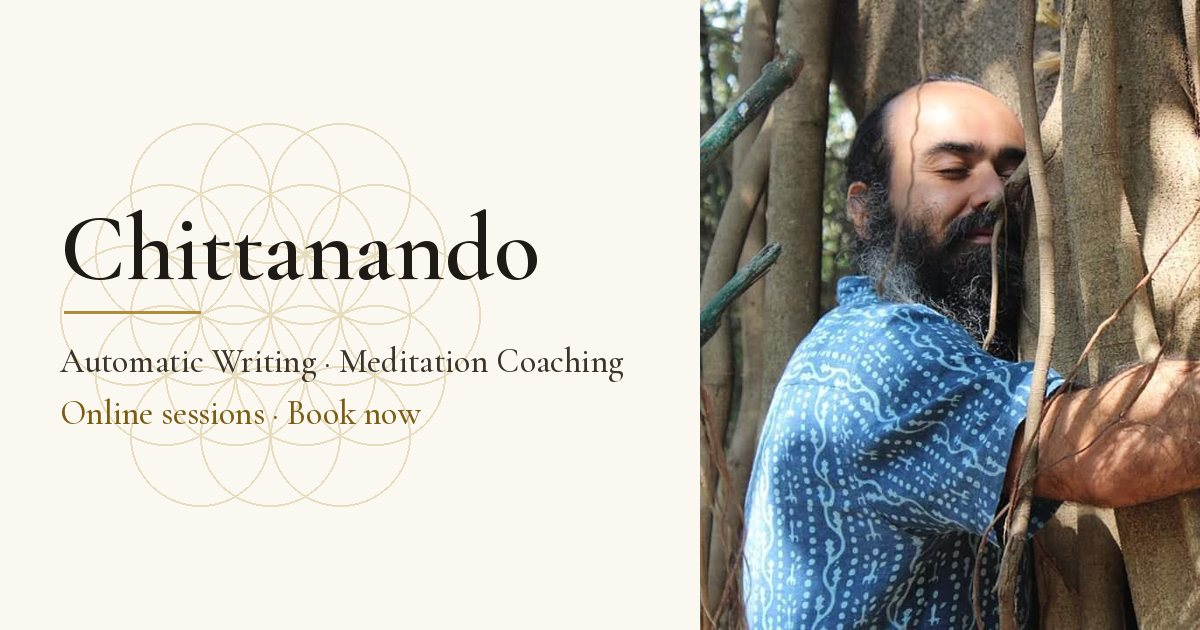
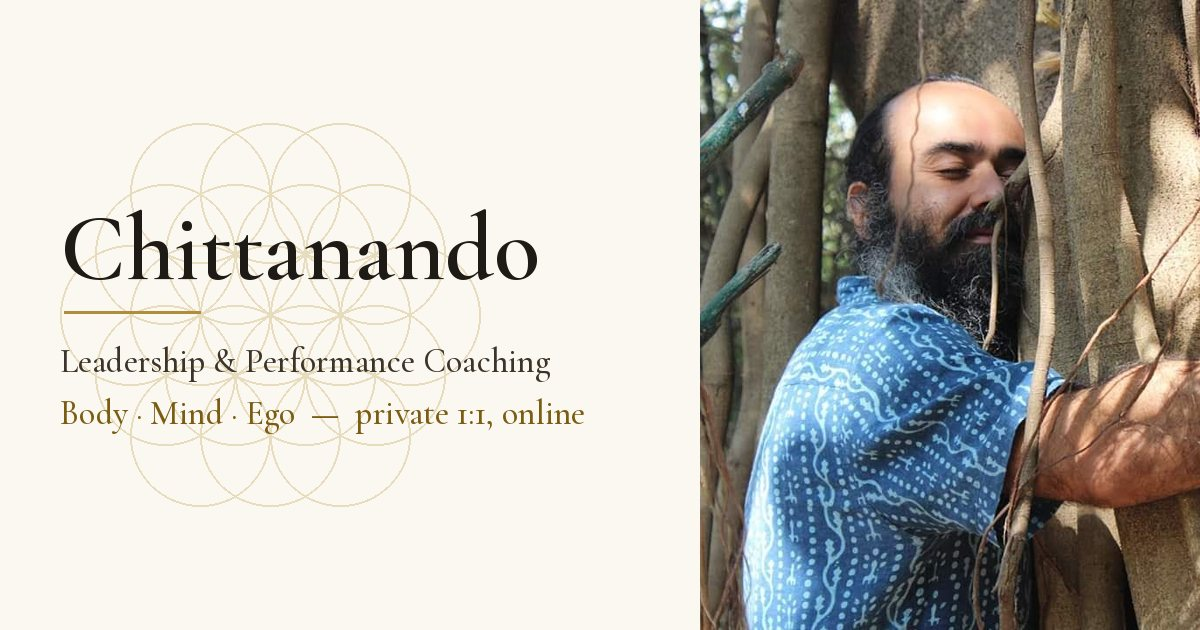
Reposition: Leadership & Performance Coaching as flagship

Changed region(s): [[0.0308, 0.6333, 0.4933, 0.6937], [0.0308, 0.5429, 0.5242, 0.6032]]

diff --git a/index.html b/index.html
@@ -5,15 +5,15 @@
 <meta name="viewport" content="width=device-width, initial-scale=1">
 <meta http-equiv="Content-Security-Policy" content="default-src 'self'; script-src 'self'; style-src 'self'; img-src 'self' data:; font-src 'self'; connect-src 'self' https://*.trycloudflare.com; form-action 'self' mailto:; base-uri 'self'; object-src 'none'">
 <meta name="referrer" content="strict-origin-when-cross-origin">
-<title>Chittanando — Automatic Writing &amp; Meditation Coaching | Book Online</title>
-<meta name="description" content="Book a one-to-one online Automatic Writing (Soul Speak) or Mind Mastery session with Chittanando, spiritual medium and meditation coach. US$100 / ₹8,500 per session.">
+<title>Leadership &amp; Performance Coaching for Leaders and Entrepreneurs | Chittanando</title>
+<meta name="description" content="Private 1:1 coaching for senior leaders, top management and entrepreneurs: optimum performance and work-life balance through integrated body, mind and ego work. Book a free discovery call.">
 <meta name="robots" content="index,follow">
 <link rel="canonical" href="https://koyguy.github.io/chittanando-site/">
 <meta name="theme-color" content="#1f2340">
 <meta property="og:type" content="website">
 <meta property="og:site_name" content="Chittanando">
-<meta property="og:title" content="Chittanando — Automatic Writing &amp; Meditation Coaching | Book Online">
-<meta property="og:description" content="Book a one-to-one online Automatic Writing (Soul Speak) or Mind Mastery session with Chittanando, spiritual medium and meditation coach. US$100 / ₹8,500 per session.">
+<meta property="og:title" content="Leadership &amp; Performance Coaching for Leaders and Entrepreneurs | Chittanando">
+<meta property="og:description" content="Private 1:1 coaching for senior leaders, top management and entrepreneurs: optimum performance and work-life balance through integrated body, mind and ego work. Book a free discovery call.">
 <meta property="og:url" content="https://koyguy.github.io/chittanando-site/">
 <meta property="og:image" content="https://koyguy.github.io/chittanando-site/assets/og-image.jpg">
 <meta property="og:image:width" content="1200"><meta property="og:image:height" content="630">
@@ -25,10 +25,10 @@
 <link rel="apple-touch-icon" href="apple-touch-icon.png">
 <link rel="manifest" href="manifest.webmanifest">
 <link rel="preload" href="fonts/cormorant-garamond-latin-600-normal.woff2" as="font" type="font/woff2" crossorigin>
-<link rel="stylesheet" href="assets/site.css?v=mwteq4mx">
-<script src="config.js?v=mwteq4mx" defer></script>
-<script src="assets/app.js?v=mwteq4mx" defer></script>
-<script type="application/ld+json">{"@context":"https://schema.org","@graph":[{"@type":"ProfessionalService","@id":"https://koyguy.github.io/chittanando-site/#business","name":"Chittanando","url":"https://koyguy.github.io/chittanando-site/","image":"https://koyguy.github.io/chittanando-site/assets/og-image.jpg","email":"ig.permaheal@gmail.com","description":"Automatic Writing sessions, spiritual guidance and meditation coaching, online worldwide.","areaServed":"Worldwide","priceRange":"US$100 / ₹8,500 per session","founder":{"@id":"https://koyguy.github.io/chittanando-site/#founder"},"hasOfferCatalog":{"@type":"OfferCatalog","name":"Sessions","itemListElement":[{"@type":"Offer","price":"100","priceCurrency":"USD","itemOffered":{"@type":"Service","name":"Soul Speak · Automatic Writing Session","description":"Channeled guidance through Automatic Writing. Bring your questions and connect with your spirit guides, ascended masters and departed loved ones.","provider":{"@id":"https://koyguy.github.io/chittanando-site/#business"}}},{"@type":"Offer","price":"100","priceCurrency":"USD","itemOffered":{"@type":"Service","name":"Mind Mastery Session","description":"Meditation as mind training, not just relaxation. Practical techniques to steady attention, settle your nervous system and sustain what opens up in Soul Speak.","provider":{"@id":"https://koyguy.github.io/chittanando-site/#business"}}}]}},{"@type":"Person","@id":"https://koyguy.github.io/chittanando-site/#founder","name":"Chittanando","alternateName":"Ranjot Singh","jobTitle":"Spiritual medium and meditation coach","sameAs":["https://igpermaheal.wixsite.com/chittanando-com"]},{"@type":"WebSite","@id":"https://koyguy.github.io/chittanando-site/#site","url":"https://koyguy.github.io/chittanando-site/","name":"Chittanando","inLanguage":"en-IN"}]}</script>
+<link rel="stylesheet" href="assets/site.css?v=mwtftqn5">
+<script src="config.js?v=mwtftqn5" defer></script>
+<script src="assets/app.js?v=mwtftqn5" defer></script>
+<script type="application/ld+json">{"@context":"https://schema.org","@graph":[{"@type":"ProfessionalService","@id":"https://koyguy.github.io/chittanando-site/#business","name":"Chittanando","url":"https://koyguy.github.io/chittanando-site/","image":"https://koyguy.github.io/chittanando-site/assets/og-image.jpg","email":"ig.permaheal@gmail.com","description":"Private leadership and performance coaching for senior leaders, top management and entrepreneurs — optimum performance and work-life balance through integrated body, mind and ego work. Also Mind Mastery and Automatic Writing sessions. Online worldwide.","areaServed":"Worldwide","priceRange":"US$100 / ₹8,500 per session","founder":{"@id":"https://koyguy.github.io/chittanando-site/#founder"},"hasOfferCatalog":{"@type":"OfferCatalog","name":"Coaching & sessions","itemListElement":[{"@type":"Offer","availability":"https://schema.org/InStock","description":"By application; free 20-minute discovery call","itemOffered":{"@type":"Service","name":"Leadership & Performance Coaching","description":"Private coaching for senior leaders, top management and entrepreneurs who want to perform at their best without burning out. We work on body, mind and ego together, so better decisions and a sustainable work-life balance come from the inside out.","provider":{"@id":"https://koyguy.github.io/chittanando-site/#business"}}},{"@type":"Offer","price":"100","priceCurrency":"USD","itemOffered":{"@type":"Service","name":"Mind Mastery Session","description":"Meditation as mind training, not just relaxation. Practical techniques for mental clarity and nervous-system regulation when the pressure is on.","provider":{"@id":"https://koyguy.github.io/chittanando-site/#business"}}},{"@type":"Offer","price":"100","priceCurrency":"USD","itemOffered":{"@type":"Service","name":"Soul Speak · Automatic Writing Session","description":"An intuitive session through Automatic Writing. Bring a question about a decision, a relationship or a pattern, and receive channeled guidance from your spirit guides, ascended masters or departed loved ones.","provider":{"@id":"https://koyguy.github.io/chittanando-site/#business"}}}]}},{"@type":"Person","@id":"https://koyguy.github.io/chittanando-site/#founder","name":"Chittanando","alternateName":"Ranjot Singh","jobTitle":"Leadership and performance coach, meditation coach and spiritual medium","sameAs":["https://igpermaheal.wixsite.com/chittanando-com"]},{"@type":"WebSite","@id":"https://koyguy.github.io/chittanando-site/#site","url":"https://koyguy.github.io/chittanando-site/","name":"Chittanando","inLanguage":"en-IN"}]}</script>
 </head>
 <body>
 <a class="skip" href="#main">Skip to content</a>
@@ -42,7 +42,7 @@
         <ul><li><a href="./#about">About</a></li><li><a href="./#sessions">Sessions</a></li><li><a href="./#how">How it works</a></li><li><a href="./#pricing">Pricing</a></li><li><a href="./#faq">FAQ</a></li><li><a href="./#contact">Contact</a></li></ul>
       </details>
     </nav>
-    <a class="btn btn-small" href="./#book">Book a session</a>
+    <a class="btn btn-small" href="./#book" data-pick-service="enquiry">Book a discovery call</a>
   </div>
 </header>
 <main id="main">
@@ -51,17 +51,17 @@
   <img class="geo" src="assets/flower-of-life.svg" alt="" width="400" height="400" aria-hidden="true">
   <div class="wrap hero-grid">
     <div class="hero-copy">
-      <p class="eyebrow">Automatic Writer · Spiritual Coach · Medium &amp; Guide</p>
-      <h1>Clear guidance from Spirit. Practical tools for your mind.</h1>
-      <p class="lead">One-to-one online sessions with Chittanando — Automatic Writing medium and meditation coach. Ancient wisdom made practical, in plain language.</p>
+      <p class="eyebrow">Leadership &amp; Performance Coach · Meditation Coach · Automatic Writer</p>
+      <h1>Lead at your best — without losing yourself.</h1>
+      <p class="lead">Private leadership and performance coaching for senior leaders, top management and entrepreneurs. Optimum performance and real work-life balance, built by working on body, mind and ego together.</p>
       <div class="cta-row">
-        <a class="btn" href="#book">Book a session</a>
-        <a class="btn btn-ghost" href="#how">How it works</a>
+        <a class="btn" href="#book" data-pick-service="enquiry">Book a free discovery call</a>
+        <a class="btn btn-ghost" href="#sessions">See the approach</a>
       </div>
       <ul class="facts" aria-label="At a glance">
-        <li><strong>Since 2005</strong> practising Automatic Writing</li>
+        <li><strong>Private</strong> one-to-one &amp; confidential</li>
+        <li><strong>Online</strong> worldwide, scheduled around you</li>
         <li><strong>Since 2019</strong> in professional practice</li>
-        <li><strong>Online</strong> sessions worldwide</li>
       </ul>
     </div>
     <figure class="hero-figure">
@@ -78,7 +78,7 @@
     <p class="eyebrow">About</p>
     <h2 id="about-h">Meet Chittanando</h2>
     <p>Chittanando (Ranjot Singh) is a spiritual medium and meditation coach. He received the link for Automatic Writing in 2005 from his Guru, Prof. Kashmira Elavia, trained for 13 years, and has worked with clients professionally since 2019.</p>
-    <p>His work brings two things together: channeled guidance that helps you see what is really going on, and practical mind training that helps you live it. No jargon, no gatekeeping — just honest guidance and tools you can use.</p>
+    <p>Today his main work is private coaching for leaders and entrepreneurs. He combines body practice, mind training and ego work, so the people carrying the most responsibility can think clearly under pressure, stay well, and make room for the life outside work. No jargon, no gatekeeping — just honest guidance and practical tools.</p>
     <blockquote class="quote"><p>“It’s here, in your body, on this Earth, in this very moment.”</p></blockquote>
   </div>
 </section>
@@ -86,33 +86,39 @@
 <section id="sessions" class="section alt" aria-labelledby="sessions-h">
   <div class="wrap">
     <p class="eyebrow">Sessions</p>
-    <h2 id="sessions-h">A journey in three steps</h2>
-    <p class="section-lead">Start with Soul Speak, deepen with Mind Mastery, and continue into an Advanced Program when you are ready. Energy work opens the door; mind training helps the change last.</p>
+    <h2 id="sessions-h">Body, mind and ego — one integrated approach</h2>
+    <p class="section-lead">Most performance coaching works on the mind alone. Lasting change happens when the body, the mind and the ego are addressed together.</p>
+    <ul class="pillars" aria-label="The three dimensions">
+      <li><h3>Body</h3><p>Energy, stamina and a calmer stress response — through breath, movement and Meipadam &amp; Karlakattai body-energy practice.</p></li>
+      <li><h3>Mind</h3><p>Clarity, focus and nervous-system regulation, so you stay steady when the stakes are high.</p></li>
+      <li><h3>Ego</h3><p>Seeing and reprogramming the patterns behind overwork, conflict and self-sabotage.</p></li>
+    </ul>
     <div class="cards">
-  <article class="card service" aria-labelledby="svc-soul-speak">
-    <p class="eyebrow">Tier 1 · Begin here</p>
-    <h3 id="svc-soul-speak">Soul Speak · Automatic Writing Session</h3>
-    <p>Channeled guidance through Automatic Writing. Bring your questions and connect with your spirit guides, ascended masters and departed loved ones.</p>
-    <ul class="ticks"><li>45-minute one-to-one video session</li><li>Guidance written in real time, then read through with you</li><li>Clarity on the patterns, choices and relationships you bring</li></ul>
-    <p class="price"><span class="amount" data-usd="US$100" data-inr="₹8,500">US$100</span> <span class="per">/ session · 45 min</span></p>
-    <a class="btn " href="./#book" data-pick-service="soul-speak">Book Soul Speak Session</a>
+  <article class="card service featured" aria-labelledby="svc-enquiry">
+    <p class="eyebrow">Flagship · Private 1:1 · By application</p>
+    <h3 id="svc-enquiry">Leadership &amp; Performance Coaching</h3>
+    <p>Private coaching for senior leaders, top management and entrepreneurs who want to perform at their best without burning out. We work on body, mind and ego together, so better decisions and a sustainable work-life balance come from the inside out.</p>
+    <ul class="ticks"><li>Body: energy, stamina and stress resilience through breath and movement, including Meipadam &amp; Karlakattai (traditional Tamil body-energy practice)</li><li>Mind: clarity, focus and nervous-system regulation under pressure</li><li>Ego: seeing and reprogramming the patterns that drive overwork, conflict and self-sabotage</li><li>Start with a free 20-minute discovery call; programme format shared on application</li></ul>
+    <p class="price"><span class="amount amount-text">By application</span> <span class="per">· free 20-min discovery call</span></p>
+    <a class="btn " href="./#book" data-pick-service="enquiry">Book a discovery call</a>
   </article>
   <article class="card service" aria-labelledby="svc-mind-mastery">
-    <p class="eyebrow">Tier 2 · Go deeper</p>
+    <p class="eyebrow">1:1 session · Mind</p>
     <h3 id="svc-mind-mastery">Mind Mastery Session</h3>
-    <p>Meditation as mind training, not just relaxation. Practical techniques to steady attention, settle your nervous system and sustain what opens up in Soul Speak.</p>
-    <ul class="ticks"><li>60-minute one-to-one video session</li><li>Meditation, breath and body-awareness practices</li><li>Simple daily practices to take away</li></ul>
+    <p>Meditation as mind training, not just relaxation. Practical techniques for mental clarity and nervous-system regulation when the pressure is on.</p>
+    <ul class="ticks"><li>60-minute one-to-one video session</li><li>Breath, attention and body-awareness practices</li><li>Short daily routines that fit a full calendar</li></ul>
     <p class="price"><span class="amount" data-usd="US$100" data-inr="₹8,500">US$100</span> <span class="per">/ session · 60 min</span></p>
-    <a class="btn " href="./#book" data-pick-service="mind-mastery">Book Mind Mastery Session</a>
+    <a class="btn btn-ghost" href="./#book" data-pick-service="mind-mastery">Book Mind Mastery Session</a>
   </article>
-  <article class="card service" aria-labelledby="svc-enquiry">
-    <p class="eyebrow">Tier 3 &amp; Couples · By application</p>
-    <h3 id="svc-enquiry">Advanced Programs &amp; Couples — Enquiry Call</h3>
-    <p>Longer journeys for people ready for sustained change: subconscious reprogramming &amp; manifestation modules, Meipadam &amp; Karlakattai body-energy practice (traditional Tamil warrior fitness), and application programs for couples, manifestation and leadership.</p>
-    <ul class="ticks"><li>Free 20-minute call to see if a program fits</li><li>Couples work: heal together, deepen intimacy, align with purpose</li><li>Programs and fees shared on application</li></ul>
-    <p class="price"><span class="amount amount-text">By application</span> <span class="per">· free 20-min enquiry call</span></p>
-    <a class="btn btn-ghost" href="./#book" data-pick-service="enquiry">Book an enquiry call</a>
+  <article class="card service" aria-labelledby="svc-soul-speak">
+    <p class="eyebrow">1:1 session · Intuitive entry point</p>
+    <h3 id="svc-soul-speak">Soul Speak · Automatic Writing Session</h3>
+    <p>An intuitive session through Automatic Writing. Bring a question about a decision, a relationship or a pattern, and receive channeled guidance from your spirit guides, ascended masters or departed loved ones.</p>
+    <ul class="ticks"><li>45-minute one-to-one video session</li><li>Guidance written in real time, then read through with you</li><li>A different perspective on what you&#39;re facing</li></ul>
+    <p class="price"><span class="amount" data-usd="US$100" data-inr="₹8,500">US$100</span> <span class="per">/ session · 45 min</span></p>
+    <a class="btn btn-ghost" href="./#book" data-pick-service="soul-speak">Book Soul Speak Session</a>
   </article></div>
+    <p class="also"><strong>Also offered:</strong> couples sessions, by enquiry — choose “Couples sessions” when you book a discovery call.</p>
   </div>
 </section>
 
@@ -121,10 +127,10 @@
     <p class="eyebrow">How it works</p>
     <h2 id="how-h">Simple, private, online</h2>
     <ol class="steps-list">
-      <li><h3>Choose a time</h3><p>Pick a session and a time that suits you. Times are shown in your own time zone, with India time alongside.</p></li>
+      <li><h3>Choose a time</h3><p>Book a free discovery call or a 1:1 session at a time that suits you. Times are shown in your own time zone, with India time alongside.</p></li>
       <li><h3>Get confirmation</h3><p>Chittanando confirms personally by email or WhatsApp, usually within 24 hours, with payment details and your video-call link.</p></li>
-      <li><h3>Prepare</h3><p>Find a quiet, private space with headphones and a stable connection. Note the questions or intention you want to bring.</p></li>
-      <li><h3>Meet online</h3><p>Join the video call. Guidance is shared and explained with you, along with practices you can take away.</p></li>
+      <li><h3>Prepare</h3><p>Find a quiet, private space with headphones and a stable connection. Note what you want to change — at work and outside it.</p></li>
+      <li><h3>Meet online</h3><p>Join the video call and leave with clear next steps and practices that fit into a full calendar.</p></li>
     </ol>
   </div>
 </section>
@@ -139,8 +145,8 @@
     </div>
     <div class="price-panel">
       <p class="big-price"><span data-usd="US$100" data-inr="₹8,500">US$100</span><span class="per"> per session</span></p>
-      <p>Soul Speak (45 min) and Mind Mastery (60 min). Clients in India pay ₹8,500.</p>
-      <p class="muted">Advanced Programs and couples work are by application — start with a free 20-minute enquiry call. No payment is taken on this website; details are shared when your booking is confirmed.</p>
+      <p>Single 1:1 sessions: Mind Mastery (60 min) and Soul Speak (45 min). Clients in India pay ₹8,500.</p>
+      <p class="muted">Leadership &amp; Performance Coaching is a private programme by application — start with a free 20-minute discovery call; format and fees are shared on application. Couples sessions are by enquiry. No payment is taken on this website; details are shared when your booking is confirmed.</p>
       <p class="muted small" id="geo-hint" hidden></p>
     </div>
   </div>
@@ -151,7 +157,7 @@
     <p class="eyebrow">Book</p>
     <h2 id="book-h">Request your session</h2>
     <p class="section-lead">Choose a session and time. Your booking is held as <em>pending</em> until Chittanando confirms it personally.</p>
-    <noscript><p class="notice">Online booking needs JavaScript. You can still <a href="mailto:ig.permaheal@gmail.com?subject=Session%20enquiry%20%E2%80%94%20Chittanando&amp;body=Hello%20Chittanando%2C%0A%0AI%20would%20like%20to%20book%20a%20session.%0A%0ASession%3A%20%0APreferred%20dates%2Ftimes%20(with%20my%20time%20zone)%3A%20%0AName%3A%20%0APhone%2FWhatsApp%3A%20%0ACountry%3A%20%0AWhat%20I%20would%20like%20guidance%20on%3A%20%0A%0AThank%20you.">book by email</a>.</p></noscript>
+    <noscript><p class="notice">Online booking needs JavaScript. You can still <a href="mailto:ig.permaheal@gmail.com?subject=Session%20enquiry%20%E2%80%94%20Chittanando&amp;body=Hello%20Chittanando%2C%0A%0AI%20would%20like%20to%20book%20a%20discovery%20call%20%2F%20session.%0A%0ASession%20or%20programme%3A%20%0APreferred%20dates%2Ftimes%20(with%20my%20time%20zone)%3A%20%0AName%3A%20%0APhone%2FWhatsApp%3A%20%0ACountry%3A%20%0AWhat%20I%20would%20like%20to%20work%20on%3A%20%0A%0AThank%20you.">book by email</a>.</p></noscript>
     <div id="booking" class="booking" data-state="loading">
       <p id="booking-status" class="notice" role="status" aria-live="polite">Loading available times…</p>
       <form id="booking-form" novalidate hidden>
@@ -159,9 +165,9 @@
           <legend><span class="num">1</span> Choose a session</legend>
           <div class="choices">
   <label class="choice">
-    <input type="radio" name="service" value="soul-speak" checked required>
-    <span class="choice-body"><span class="choice-title">Soul Speak Session</span>
-    <span class="choice-meta">45 min · <span data-usd="US$100" data-inr="₹8,500">US$100</span></span></span>
+    <input type="radio" name="service" value="enquiry" checked required>
+    <span class="choice-body"><span class="choice-title">Leadership discovery call</span>
+    <span class="choice-meta">20 min · free · by application</span></span>
   </label>
   <label class="choice">
     <input type="radio" name="service" value="mind-mastery"  required>
@@ -169,9 +175,9 @@
     <span class="choice-meta">60 min · <span data-usd="US$100" data-inr="₹8,500">US$100</span></span></span>
   </label>
   <label class="choice">
-    <input type="radio" name="service" value="enquiry"  required>
-    <span class="choice-body"><span class="choice-title">Enquiry call</span>
-    <span class="choice-meta">20 min · free · Tier 3 &amp; couples</span></span>
+    <input type="radio" name="service" value="soul-speak"  required>
+    <span class="choice-body"><span class="choice-title">Soul Speak Session</span>
+    <span class="choice-meta">45 min · <span data-usd="US$100" data-inr="₹8,500">US$100</span></span></span>
   </label></div>
         </fieldset>
         <fieldset class="step" id="step-time">
@@ -198,8 +204,8 @@
               <input id="f-country" name="country" autocomplete="country-name" required maxlength="60" aria-describedby="err-country"><p class="field-error" id="err-country" hidden></p></div>
           </div>
           <div class="field" id="interest-field" hidden><label for="f-interest">Which program interests you?</label>
-            <select id="f-interest" name="interest"><option>Couples program</option><option>Subconscious reprogramming &amp; manifestation</option><option>Meipadam &amp; Karlakattai body-energy practice</option><option>Leadership program</option><option>Not sure yet</option></select></div>
-          <div class="field"><label for="f-intention">What would you like guidance on? <span class="muted">(optional)</span></label>
+            <select id="f-interest" name="interest"><option>Leadership &amp; Performance Coaching (1:1)</option><option>Ego work &amp; subconscious reprogramming</option><option>Meipadam &amp; Karlakattai body practice</option><option>Couples sessions</option><option>Not sure yet</option></select></div>
+          <div class="field"><label for="f-intention">What would you like to work on? <span class="muted">(optional)</span></label>
             <textarea id="f-intention" name="intention" rows="4" maxlength="1000" aria-describedby="intention-hint"></textarea><p class="hint" id="intention-hint">A sentence or two is plenty. Max 1,000 characters.</p></div>
           <div class="hp" aria-hidden="true"><label for="f-website">Leave this empty</label><input id="f-website" name="website" tabindex="-1" autocomplete="off"></div>
           <div class="field check"><input type="checkbox" id="f-consent" name="consent" required aria-describedby="err-consent">
@@ -215,7 +221,7 @@
       <div id="booking-fallback" class="fallback" hidden>
         <h3>Book by email</h3>
         <p>Or simply send a quick enquiry and Chittanando will reply with available times.</p>
-        <a class="btn" id="fallback-mailto" href="mailto:ig.permaheal@gmail.com?subject=Session%20enquiry%20%E2%80%94%20Chittanando&amp;body=Hello%20Chittanando%2C%0A%0AI%20would%20like%20to%20book%20a%20session.%0A%0ASession%3A%20%0APreferred%20dates%2Ftimes%20(with%20my%20time%20zone)%3A%20%0AName%3A%20%0APhone%2FWhatsApp%3A%20%0ACountry%3A%20%0AWhat%20I%20would%20like%20guidance%20on%3A%20%0A%0AThank%20you.">Email to book a session</a>
+        <a class="btn" id="fallback-mailto" href="mailto:ig.permaheal@gmail.com?subject=Session%20enquiry%20%E2%80%94%20Chittanando&amp;body=Hello%20Chittanando%2C%0A%0AI%20would%20like%20to%20book%20a%20discovery%20call%20%2F%20session.%0A%0ASession%20or%20programme%3A%20%0APreferred%20dates%2Ftimes%20(with%20my%20time%20zone)%3A%20%0AName%3A%20%0APhone%2FWhatsApp%3A%20%0ACountry%3A%20%0AWhat%20I%20would%20like%20to%20work%20on%3A%20%0A%0AThank%20you.">Email to book a session</a>
         <p class="hint">Opens your email app with a short template, addressed to ig.permaheal@gmail.com.</p>
       </div>
     </div>
@@ -226,7 +232,7 @@
   <div class="wrap narrow">
     <p class="eyebrow">FAQ</p>
     <h2 id="faq-h">Questions, answered simply</h2>
-    <div class="faq"><details><summary>What is automatic writing?</summary><p>Automatic writing is a form of channeling. Chittanando settles into a quiet, receptive meditative state and writes the guidance that comes through, rather than composing it with the thinking mind. In a Soul Speak session he writes in response to your questions and then reads and talks through the guidance with you.</p></details><details><summary>Do I need to believe in anything or have experience?</summary><p>No. You only need an open mind and a sincere question. Everything is explained in plain language, and you are welcome to approach the session with curiosity.</p></details><details><summary>What happens in a session, and how do I prepare?</summary><p>Sessions are one-to-one on a video call. Find a quiet, private space with a stable connection and headphones, and note down the questions or intention you want to bring. Soul Speak sessions run 45 minutes; Mind Mastery sessions run 60 minutes.</p></details><details><summary>Who can I connect with?</summary><p>People come to connect with their spirit guides, ascended masters and departed loved ones, or simply for clarity on a decision, relationship or pattern in their life. No specific outcome can be promised — guidance comes as it comes.</p></details><details><summary>How do I pay?</summary><p>There is no payment on this website. After you request a time, Chittanando confirms your booking personally and shares payment details. Sessions are US$100, or ₹8,500 for clients in India.</p></details><details><summary>Can I reschedule or cancel?</summary><p>Yes. You can reschedule or cancel free of charge up to 24 hours before your session — just reply to your confirmation message. For changes within 24 hours, please get in touch and we will do our best to help.</p></details><details><summary>Is this therapy or medical treatment?</summary><p>No. Sessions are spiritual guidance and meditation coaching. They do not diagnose or treat any condition and are not a substitute for care from a doctor, psychologist or other qualified professional.</p></details><details><summary>How do Advanced Programs and couples work begin?</summary><p>Advanced Programs and couples work are by application. Book a free 20-minute enquiry call so you can both see whether a program is the right fit; formats and fees are shared on application.</p></details><details><summary>Is my information private?</summary><p>Yes. Your details are used only to arrange your session, are never sold or shared for marketing, and what you share in a session stays between you and Chittanando.</p></details></div>
+    <div class="faq"><details><summary>Who is Leadership &amp; Performance Coaching for?</summary><p>Senior leaders, members of top management and entrepreneurs who want to sustain high performance without sacrificing their health, relationships or peace of mind.</p></details><details><summary>What does “body, mind and ego work” mean in practice?</summary><p>Body: breath, movement and Meipadam &amp; Karlakattai practice for energy and a calmer stress response. Mind: meditation as mind training — focus, clarity and nervous-system regulation under pressure. Ego: recognising and reprogramming the habitual patterns behind overwork, conflict and self-sabotage. The three are worked on together, tailored to you.</p></details><details><summary>How does it fit into a busy schedule?</summary><p>Everything is one-to-one on video, so there is no travel. You choose times that suit you, and the practices you take away are short enough for a full calendar. The format of a programme is agreed with you after the discovery call.</p></details><details><summary>Is it confidential?</summary><p>Yes. Coaching is private and one-to-one. What you share stays between you and Chittanando, and your details are never sold or shared for marketing.</p></details><details><summary>How do I start?</summary><p>Book a free 20-minute discovery call. You will talk through what you want to change and see whether the programme is the right fit; format and fees are shared on application.</p></details><details><summary>What is automatic writing?</summary><p>Automatic writing is a form of channeling. Chittanando settles into a quiet, receptive meditative state and writes the guidance that comes through, rather than composing it with the thinking mind. In a Soul Speak session he writes in response to your questions and then reads and talks through the guidance with you.</p></details><details><summary>Do I need to believe in anything or have experience?</summary><p>No. The leadership work is practical and explained in plain language. For a Soul Speak session you only need an open mind and a sincere question.</p></details><details><summary>How do I pay?</summary><p>There is no payment on this website. After you request a time, Chittanando confirms personally and shares payment details. Single 1:1 sessions are US$100, or ₹8,500 for clients in India. Discovery calls are free.</p></details><details><summary>Can I reschedule or cancel?</summary><p>Yes. You can reschedule or cancel free of charge up to 24 hours before your session — just reply to your confirmation message. For changes within 24 hours, please get in touch and we will do our best to help.</p></details><details><summary>Do you work with couples?</summary><p>Yes, couples sessions are also offered by enquiry. Book a discovery call and choose “Couples sessions”.</p></details><details><summary>Is this therapy or medical treatment?</summary><p>No. Sessions are coaching, meditation training and spiritual guidance. They do not diagnose or treat any condition and are not a substitute for care from a doctor, psychologist or other qualified professional.</p></details></div>
   </div>
 </section>
 
@@ -243,7 +249,7 @@
   <div class="wrap footer-grid">
     <div>
       <p class="brand brand-footer"><svg class="mark" viewBox="0 0 64 64" aria-hidden="true" focusable="false"><g fill="none" stroke="currentColor" stroke-width="2.4"><circle cx="32" cy="32" r="10"/><circle cx="32" cy="22" r="10"/><circle cx="32" cy="42" r="10"/><circle cx="23.3" cy="27" r="10"/><circle cx="40.7" cy="27" r="10"/><circle cx="23.3" cy="37" r="10"/><circle cx="40.7" cy="37" r="10"/></g></svg><span>Chittanando</span></p>
-      <p>Automatic Writer · Spiritual Coach · Medium &amp; Guide</p>
+      <p>Leadership &amp; Performance Coach · Meditation Coach · Automatic Writer</p>
       <p><a href="mailto:ig.permaheal@gmail.com">ig.permaheal@gmail.com</a></p>
     </div>
     <div>

diff --git a/assets/app.js b/assets/app.js
@@ -7,6 +7,9 @@
   const BIZ_TZ = CFG.timezone || 'Asia/Kolkata';
   const BIZ_LABEL = CFG.tzLabel || 'IST';
   const $ = (s, r = document) => r.querySelector(s);
+  // Intl formatters are expensive to construct; cache them.
+  const dtfCache = new Map();
+  const DTF = (loc, o) => { const k = (loc || '') + JSON.stringify(o); let f = dtfCache.get(k); if (!f) { f = new Intl.DateTimeFormat(loc, o); dtfCache.set(k, f); } return f; };
   const $$ = (s, r = document) => Array.from(r.querySelectorAll(s));
   let userTz = 'UTC';
   try { userTz = Intl.DateTimeFormat().resolvedOptions().timeZone || 'UTC'; } catch (_) {}
@@ -35,7 +38,7 @@
   const AV = CFG.availability || null;
   const DOW = ['sun', 'mon', 'tue', 'wed', 'thu', 'fri', 'sat'];
   const offsetMin = (tz, d) => {
-    const p = Object.fromEntries(new Intl.DateTimeFormat('en-US', { timeZone: tz, hourCycle: 'h23', year: 'numeric', month: '2-digit', day: '2-digit', hour: '2-digit', minute: '2-digit', second: '2-digit' }).formatToParts(d).map((x) => [x.type, x.value]));
+    const p = Object.fromEntries(DTF('en-US', { timeZone: tz, hourCycle: 'h23', year: 'numeric', month: '2-digit', day: '2-digit', hour: '2-digit', minute: '2-digit', second: '2-digit' }).formatToParts(d).map((x) => [x.type, x.value]));
     return Math.round((Date.UTC(+p.year, +p.month - 1, +p.day, +p.hour, +p.minute, +p.second) - d.getTime()) / 60000);
   };
   const zonedToUtc = (day, min) => {
@@ -44,7 +47,7 @@
     let t = guess - offsetMin(BIZ_TZ, new Date(guess)) * 60000;
     const o2 = offsetMin(BIZ_TZ, new Date(t)); t = guess - o2 * 60000; return new Date(t);
   };
-  const bizDay = (d) => new Intl.DateTimeFormat('en-CA', { timeZone: BIZ_TZ, year: 'numeric', month: '2-digit', day: '2-digit' }).format(d);
+  const bizDay = (d) => DTF('en-CA', { timeZone: BIZ_TZ, year: 'numeric', month: '2-digit', day: '2-digit' }).format(d);
   const addDays = (day, n) => { const [y, m, d] = day.split('-').map(Number); return new Date(Date.UTC(y, m - 1, d + n)).toISOString().slice(0, 10); };
   function localSlots(serviceId, from) {
     const svc = (CFG.services || []).find((x) => x.id === serviceId) || { duration: 60 };
@@ -79,8 +82,8 @@
   const state = { service: null, from: null, prevFrom: null, nextFrom: null, groups: [], dayIdx: -1, start: null };
   const sameTz = userTz === BIZ_TZ || (inIndia && /Kolkata|Calcutta/.test(BIZ_TZ));
 
-  const fmt = (d, tz, o) => new Intl.DateTimeFormat(undefined, { timeZone: tz, ...o }).format(d);
-  const localKey = (d) => new Intl.DateTimeFormat('en-CA', { timeZone: userTz, year: 'numeric', month: '2-digit', day: '2-digit' }).format(d);
+  const fmt = (d, tz, o) => DTF(undefined, { timeZone: tz, ...o }).format(d);
+  const localKey = (d) => DTF('en-CA', { timeZone: userTz, year: 'numeric', month: '2-digit', day: '2-digit' }).format(d);
   const tzName = (() => { try { return fmt(new Date(), userTz, { timeZoneName: 'short' }).split(' ').pop(); } catch (_) { return userTz; } })();
   const hint = $('#tz-hint');
   if (hint) hint.textContent = sameTz ? `Times are shown in India Standard Time (${BIZ_LABEL}).` : `Times are shown in your time zone (${userTz.replace(/_/g, ' ')}, ${tzName}), with India Standard Time (${BIZ_LABEL}) alongside.`;
@@ -98,7 +101,7 @@
     const svc = $('input[name=service]:checked', form);
     const svcName = svc ? svc.closest('label').querySelector('.choice-title').textContent : '';
     const when = state.start ? `${fmt(new Date(state.start), userTz, { dateStyle: 'full', timeStyle: 'short' })} (${userTz}) = ${fmt(new Date(state.start), BIZ_TZ, { dateStyle: 'medium', timeStyle: 'short' })} ${BIZ_LABEL}` : '';
-    const body = `Hello Chittanando,\n\nI would like to book a session.\n\nSession: ${svcName}\nPreferred time: ${when}\nName: ${g('name')}\nPhone/WhatsApp: ${g('phone')}\nCountry: ${g('country')}\nWhat I would like guidance on: ${g('intention')}\n\nThank you.`;
+    const body = `Hello Chittanando,\n\nI would like to book a session.\n\nSession: ${svcName}\nPreferred time: ${when}\nName: ${g('name')}\nPhone/WhatsApp: ${g('phone')}\nCountry: ${g('country')}${state.service === 'enquiry' ? `\nInterested in: ${g('interest')}` : ''}\nWhat I would like to work on: ${g('intention')}\n\nThank you.`;
     return `mailto:${EMAIL}?subject=${encodeURIComponent('Session booking request — ' + (svcName || 'Chittanando'))}&body=${encodeURIComponent(body)}`;
   }
   function showFallback(reason) {
@@ -303,6 +306,7 @@
   // boot: health check, then load slots; fall back to email if the API is down
   (async () => {
     try {
+      if (!API && !CFG.sameOriginApi) throw new Error('no api configured'); // e.g. GitHub Pages without a live API
       const r = await api('/api/health');
       if (!r.ok || !API && location.hostname.endsWith('github.io')) throw new Error('down');
       form.hidden = false; setStatus('', ''); status.hidden = true; root.dataset.state = 'ready';

diff --git a/404.html b/404.html
@@ -25,9 +25,9 @@
 <link rel="apple-touch-icon" href="apple-touch-icon.png">
 <link rel="manifest" href="manifest.webmanifest">
 <link rel="preload" href="fonts/cormorant-garamond-latin-600-normal.woff2" as="font" type="font/woff2" crossorigin>
-<link rel="stylesheet" href="assets/site.css?v=mwteq4mx">
-<script src="config.js?v=mwteq4mx" defer></script>
-<script src="assets/app.js?v=mwteq4mx" defer></script>
+<link rel="stylesheet" href="assets/site.css?v=mwtftqn5">
+<script src="config.js?v=mwtftqn5" defer></script>
+<script src="assets/app.js?v=mwtftqn5" defer></script>
 
 </head>
 <body>
@@ -42,7 +42,7 @@
         <ul><li><a href="./#about">About</a></li><li><a href="./#sessions">Sessions</a></li><li><a href="./#how">How it works</a></li><li><a href="./#pricing">Pricing</a></li><li><a href="./#faq">FAQ</a></li><li><a href="./#contact">Contact</a></li></ul>
       </details>
     </nav>
-    <a class="btn btn-small" href="./#book">Book a session</a>
+    <a class="btn btn-small" href="./#book" data-pick-service="enquiry">Book a discovery call</a>
   </div>
 </header>
 <main id="main">
@@ -52,7 +52,7 @@
   <div class="wrap footer-grid">
     <div>
       <p class="brand brand-footer"><svg class="mark" viewBox="0 0 64 64" aria-hidden="true" focusable="false"><g fill="none" stroke="currentColor" stroke-width="2.4"><circle cx="32" cy="32" r="10"/><circle cx="32" cy="22" r="10"/><circle cx="32" cy="42" r="10"/><circle cx="23.3" cy="27" r="10"/><circle cx="40.7" cy="27" r="10"/><circle cx="23.3" cy="37" r="10"/><circle cx="40.7" cy="37" r="10"/></g></svg><span>Chittanando</span></p>
-      <p>Automatic Writer · Spiritual Coach · Medium &amp; Guide</p>
+      <p>Leadership &amp; Performance Coach · Meditation Coach · Automatic Writer</p>
       <p><a href="mailto:ig.permaheal@gmail.com">ig.permaheal@gmail.com</a></p>
     </div>
     <div>

diff --git a/privacy.html b/privacy.html
@@ -25,9 +25,9 @@
 <link rel="apple-touch-icon" href="apple-touch-icon.png">
 <link rel="manifest" href="manifest.webmanifest">
 <link rel="preload" href="fonts/cormorant-garamond-latin-600-normal.woff2" as="font" type="font/woff2" crossorigin>
-<link rel="stylesheet" href="assets/site.css?v=mwteq4mx">
-<script src="config.js?v=mwteq4mx" defer></script>
-<script src="assets/app.js?v=mwteq4mx" defer></script>
+<link rel="stylesheet" href="assets/site.css?v=mwtftqn5">
+<script src="config.js?v=mwtftqn5" defer></script>
+<script src="assets/app.js?v=mwtftqn5" defer></script>
 
 </head>
 <body>
@@ -42,7 +42,7 @@
         <ul><li><a href="./#about">About</a></li><li><a href="./#sessions">Sessions</a></li><li><a href="./#how">How it works</a></li><li><a href="./#pricing">Pricing</a></li><li><a href="./#faq">FAQ</a></li><li><a href="./#contact">Contact</a></li></ul>
       </details>
     </nav>
-    <a class="btn btn-small" href="./#book">Book a session</a>
+    <a class="btn btn-small" href="./#book" data-pick-service="enquiry">Book a discovery call</a>
   </div>
 </header>
 <main id="main">
@@ -68,7 +68,7 @@
   <div class="wrap footer-grid">
     <div>
       <p class="brand brand-footer"><svg class="mark" viewBox="0 0 64 64" aria-hidden="true" focusable="false"><g fill="none" stroke="currentColor" stroke-width="2.4"><circle cx="32" cy="32" r="10"/><circle cx="32" cy="22" r="10"/><circle cx="32" cy="42" r="10"/><circle cx="23.3" cy="27" r="10"/><circle cx="40.7" cy="27" r="10"/><circle cx="23.3" cy="37" r="10"/><circle cx="40.7" cy="37" r="10"/></g></svg><span>Chittanando</span></p>
-      <p>Automatic Writer · Spiritual Coach · Medium &amp; Guide</p>
+      <p>Leadership &amp; Performance Coach · Meditation Coach · Automatic Writer</p>
       <p><a href="mailto:ig.permaheal@gmail.com">ig.permaheal@gmail.com</a></p>
     </div>
     <div>

diff --git a/assets/site.css b/assets/site.css
@@ -168,3 +168,10 @@ input[aria-invalid="true"],textarea[aria-invalid="true"]{border-color:var(--erro
 .prose h2{font-size:1.7rem;margin-top:2rem}
 section[id]{scroll-margin-top:72px}
 .arrow{width:44px;padding:0;font-size:1.5rem;flex:0 0 auto}
+.pillars{list-style:none;padding:0;margin:0 0 2rem;display:grid;gap:1rem}
+@media (min-width:760px){.pillars{grid-template-columns:repeat(3,1fr)}}
+.pillars li{border-top:2px solid var(--gold);padding-top:.9rem}
+.pillars h3{font-size:1.5rem;margin-bottom:.25rem}
+.pillars p{color:var(--muted);margin:0}
+.card.featured{border:2px solid var(--gold)}
+.also{margin:1.5rem 0 0;color:var(--muted)}

diff --git a/config.js b/config.js
@@ -7,16 +7,16 @@ window.CHITTANANDO_CONFIG = {
   "tzLabel": "IST",
   "services": [
     {
-      "id": "soul-speak",
-      "duration": 45
+      "id": "enquiry",
+      "duration": 20
     },
     {
       "id": "mind-mastery",
       "duration": 60
     },
     {
-      "id": "enquiry",
-      "duration": 20
+      "id": "soul-speak",
+      "duration": 45
     }
   ],
   "availability": {
